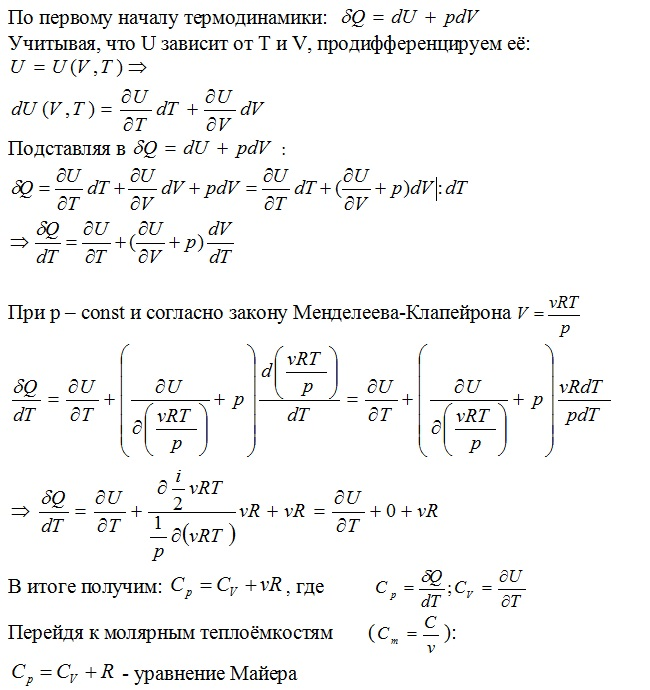
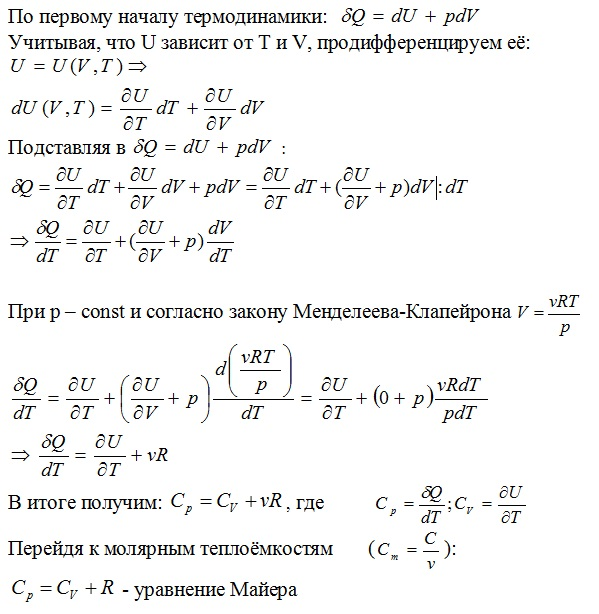
poli

diff --git a/mkt.html b/mkt.html
@@ -99,8 +99,8 @@ table {width: 90%;}
           <a href="" class="spoiler_links">Уравнение политропы<span class="plus_minus">+</span></a>
           <div class="spoler_body">
             <p>Уровень сложности: <q>Очевидно...</q></p>
-              <IMG src="img/mkt/max4.jpg" class="pictures">
-          <p>Примечане:</p>
+              <IMG src="img/mkt/poli.jpg" class="pictures">
+          <p>Примечане:зд. теплоёмкости - молярные</p>
           </div>
       </div>
 
